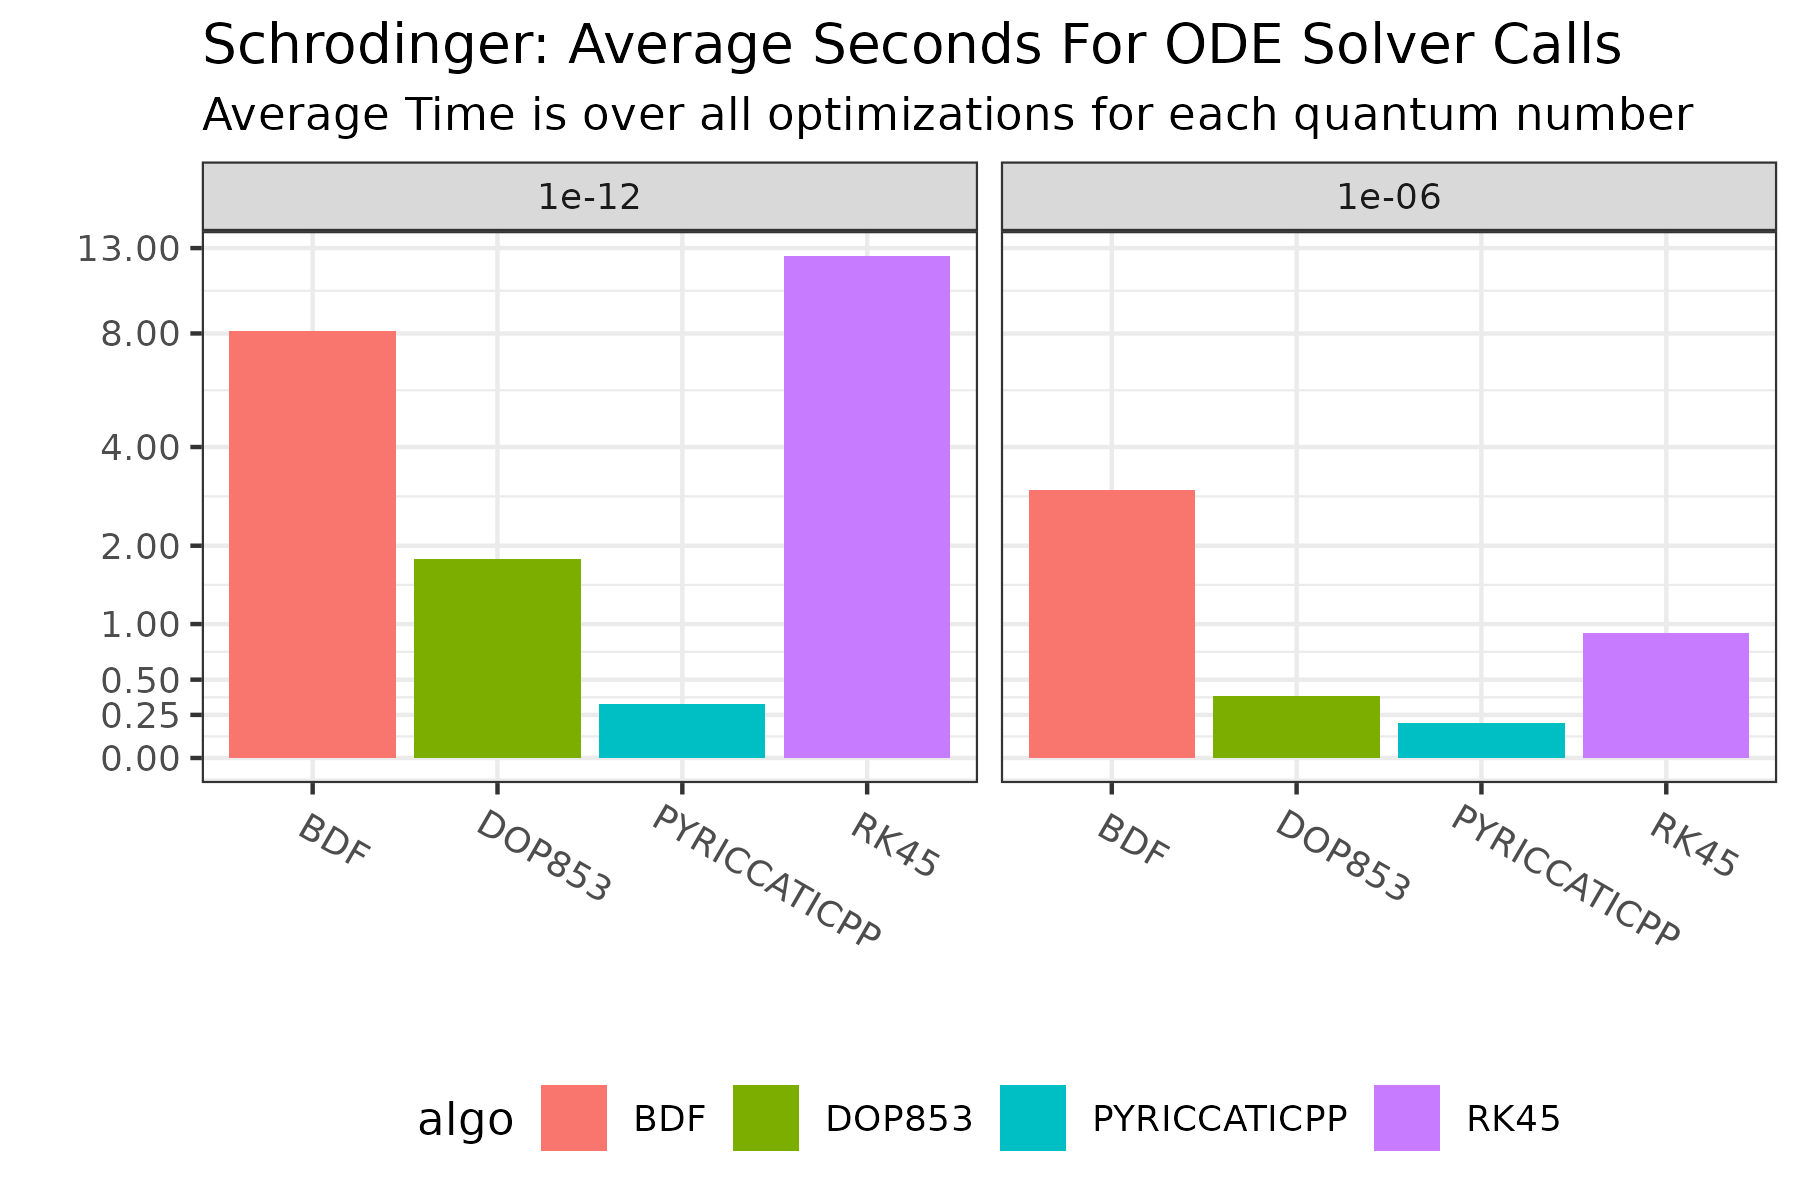
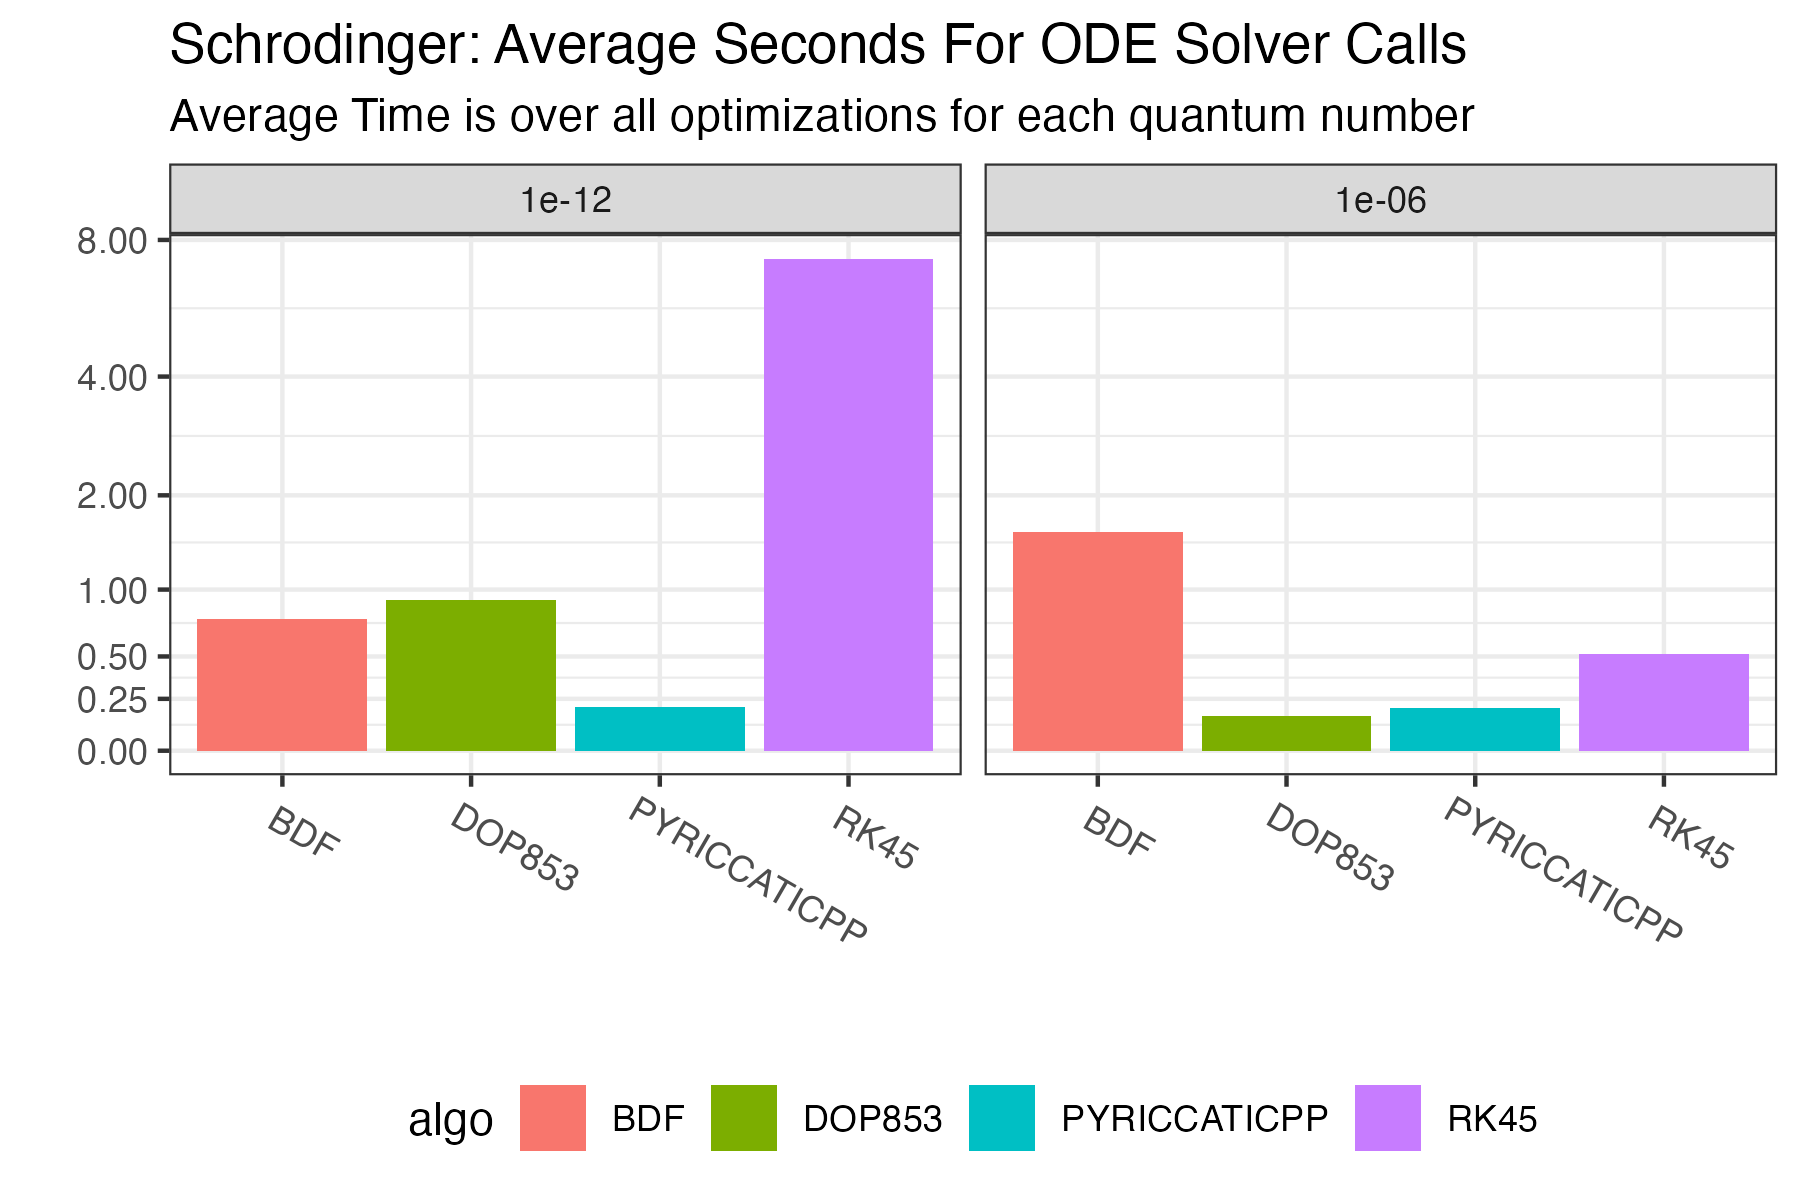
update data

diff --git a/benchmarks/schrodinger_eq.py b/benchmarks/schrodinger_eq.py
@@ -298,7 +298,7 @@ first_write = True
 with open(base_output_path + "schrodinger_times.csv", mode="a") as time_file:
     for algo, algo_params in algorithm_dict.items():
         algo_evals_pl_lst = []
-        for benchmark_run in range(10):
+        for benchmark_run in range(1):
           print("Algo: ", str(algo))
           if len(algo_params["args"]) > 1:
               algo_args_iter = itertools.product(
